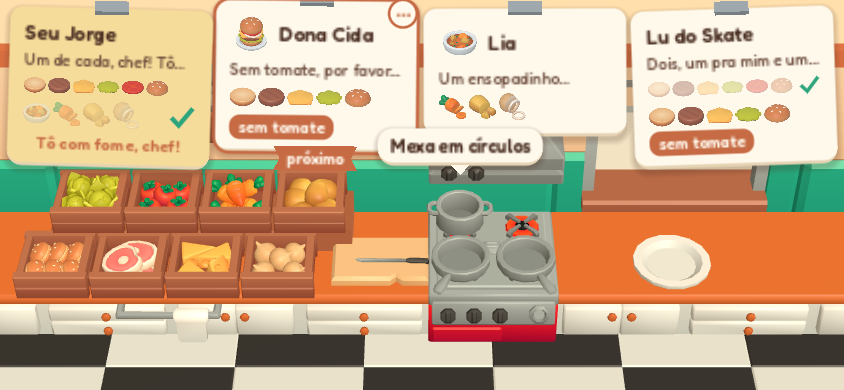
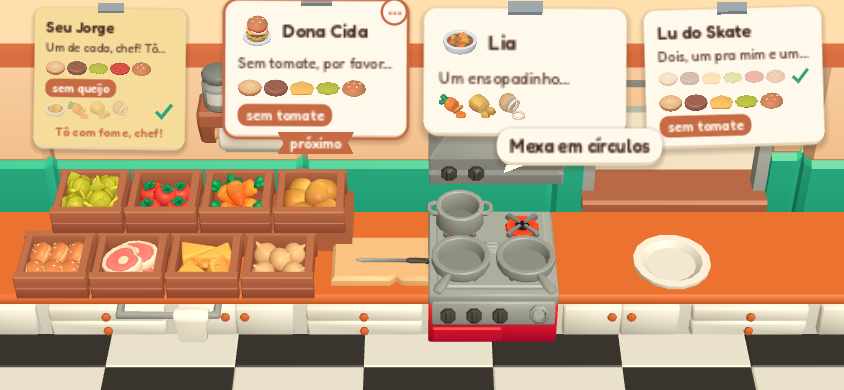
T-027: bilhetes não cobrem caixotes em telas baixas, balão fora da fumaça, dica do ponto na hora certa, frases sem repetir; 148 testes (BRF-023)

Changed region(s): [[0.0, 0.0, 1.0, 0.4615], [0.8318, 0.0, 0.8934, 0.0308]]

diff --git a/docs/backlog.md b/docs/backlog.md
@@ -28,4 +28,4 @@
 | T-024 | Etiqueta "próximo" aponta o bilhete que receberá o item carregado (sinal `delivery_target_changed`) (tam. P) | M2 | AG01 + AG02 | feita |
 | T-025 | Cozinhar simples (decisão 22): tirar picar/virar/mexer, tudo arrastar e soltar; nota por ponto, receita e agilidade (tam. M) | M2 | AG01 | feita |
 | T-026 | Validação rápida do cozinhar simples no navegador (tam. P) | M2 | AG03 | feita (passa com ressalvas → T-027) |
-| T-027 | Ressalvas do T-026: bilhete expandido cobre caixotes em telas baixas, balão sobre a fumaça, "Tire no ponto!" cedo, frase do dia repetida (tam. P) | M2 | AG01 + AG02 | em andamento |
+| T-027 | Ressalvas do T-026: bilhete expandido cobre caixotes em telas baixas, balão sobre a fumaça, "Tire no ponto!" cedo, frase do dia repetida (tam. P) | M2 | AG01 + AG02 | feita |
